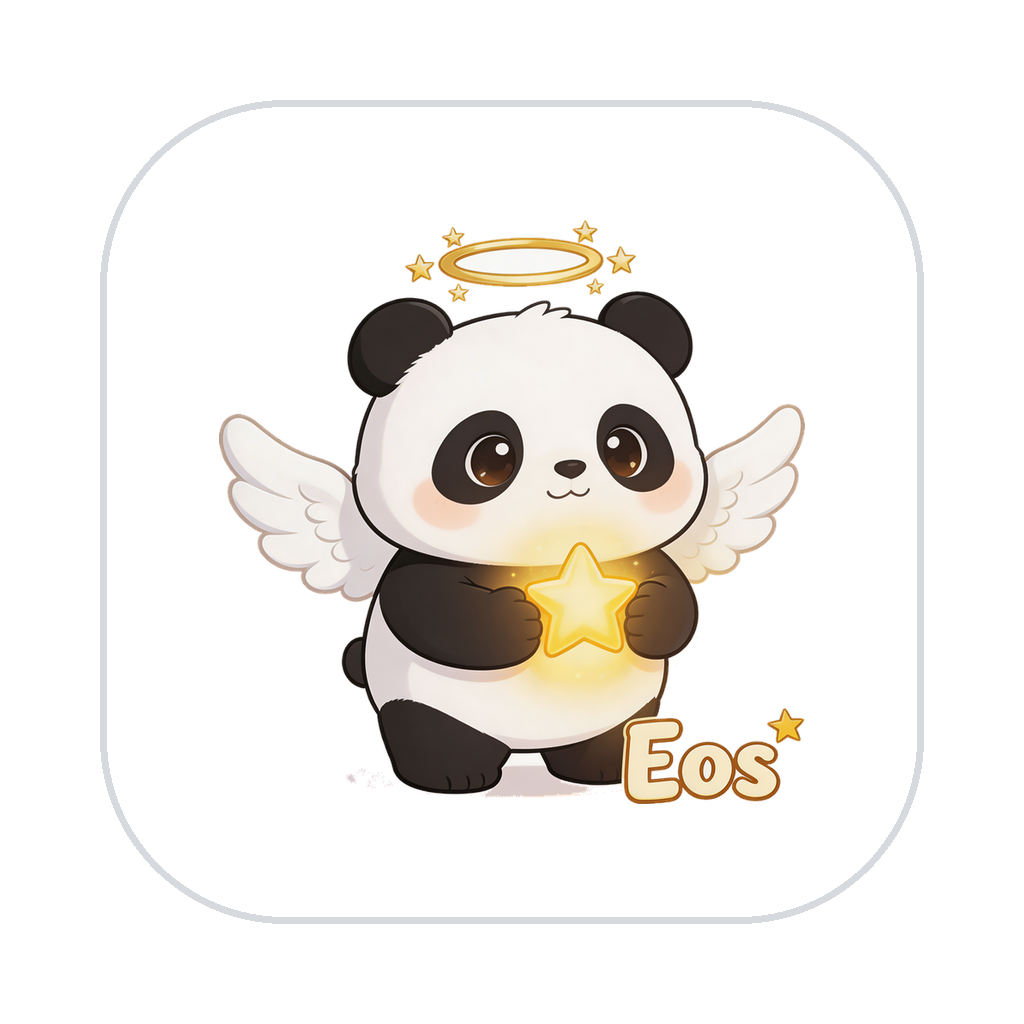
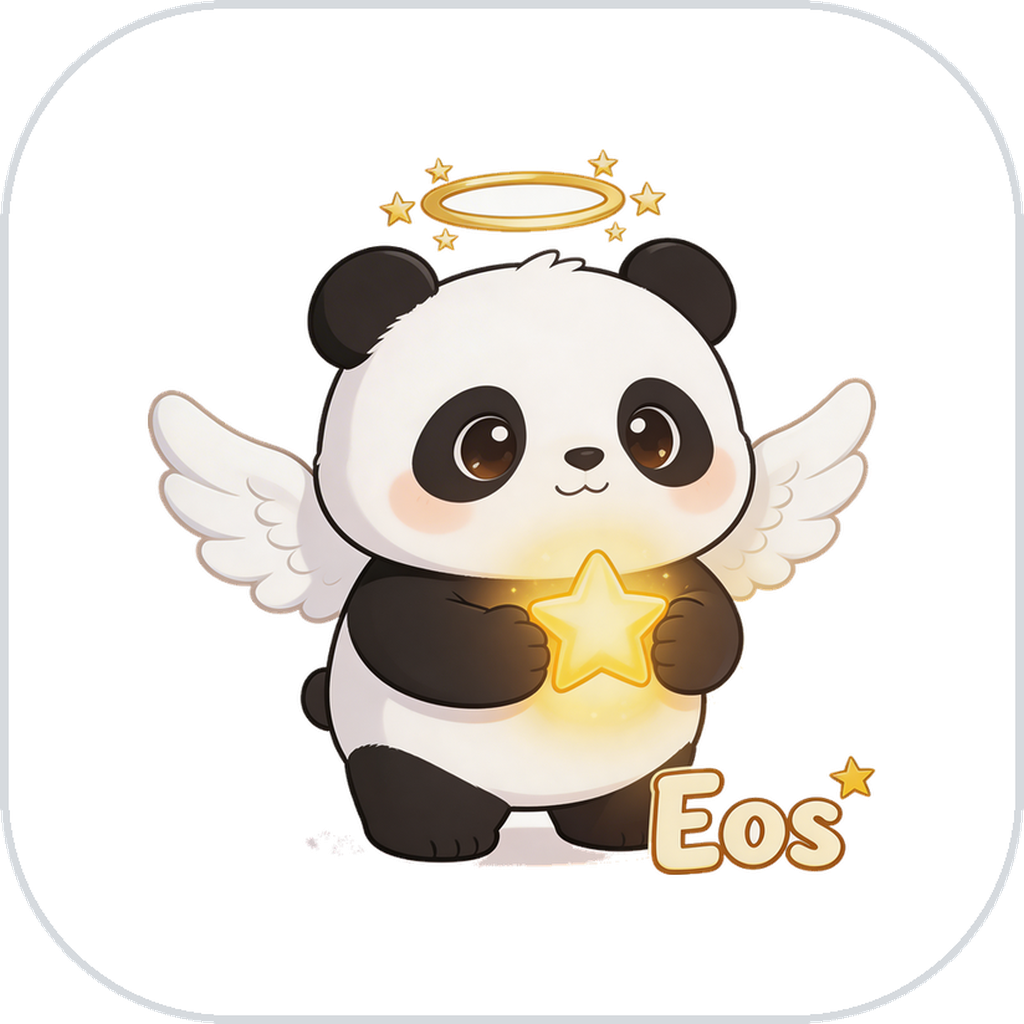
style(brand): 图标同步全出血母带；标记旧剪影生成脚本为废弃

diff --git a/scripts/README.md b/scripts/README.md
@@ -48,4 +48,4 @@ build job 产出签名 artifact，sync job 分发到 `pkg/coreapi/sidecar/core/<
 ## 其它脚本
 
 - `regen-protocol.ps1` — 重新生成 protocol schema（schema.json 变更后跑）
-- `generate_eos_icon.ps1` — 生成应用图标
+- `generate_eos_icon.ps1` — 已废弃的旧图标管线（剪影风，非家族白卡全出血标准），勿再使用
